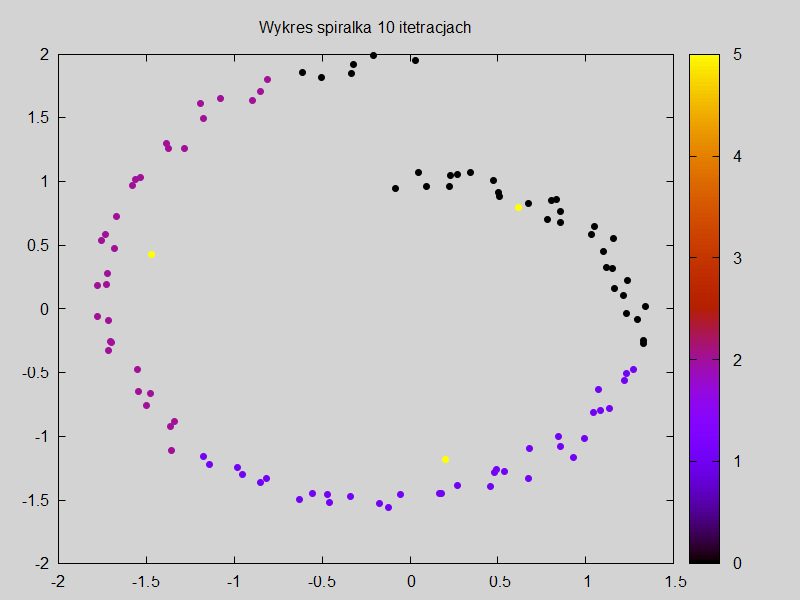
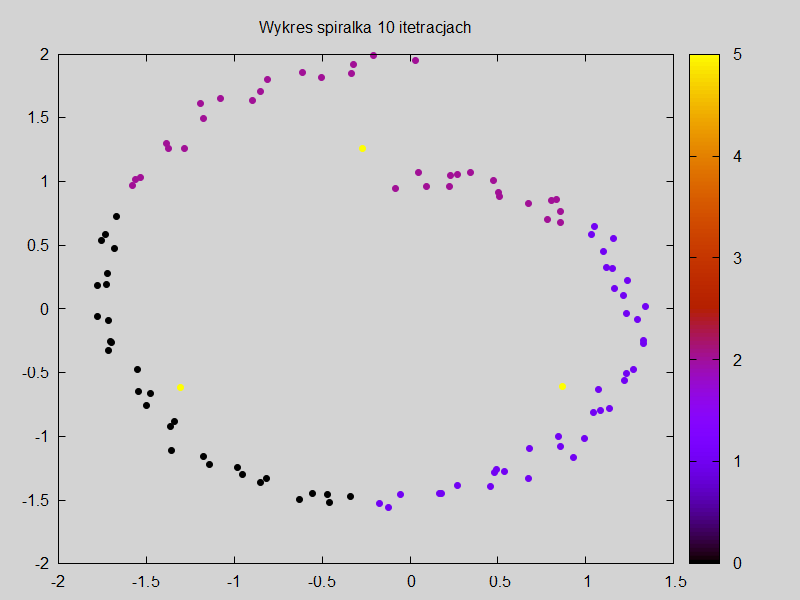
some refactor

diff --git a/main.cpp b/main.cpp
@@ -310,7 +310,6 @@ int main() {
         }
         //euclides//
 
-
             odl_mean(spiralka_odl_po, groups_odl, iters, Mo);
             countGroups_odl(spiralka_odl_po, groupSize_odl);
             calcMean_odl(spiralka_odl_po,groups_odl,groupSize_odl);
@@ -345,7 +344,7 @@ int main() {
                 gp << "plot '-' using 1:2:3 with points pt 7 lc palette notitle\n";
                 gp.send1d(spiralka_po);  // pierwsza seria
             }
-            if (j == 10) {
+            if (j == 4 || j == 10) {
                 cout << " ITERACJA "  << j << endl;
                 for (int i = 0; i < Mo; i++) {
                     showMinMax(spiralka_odl_po,i);
